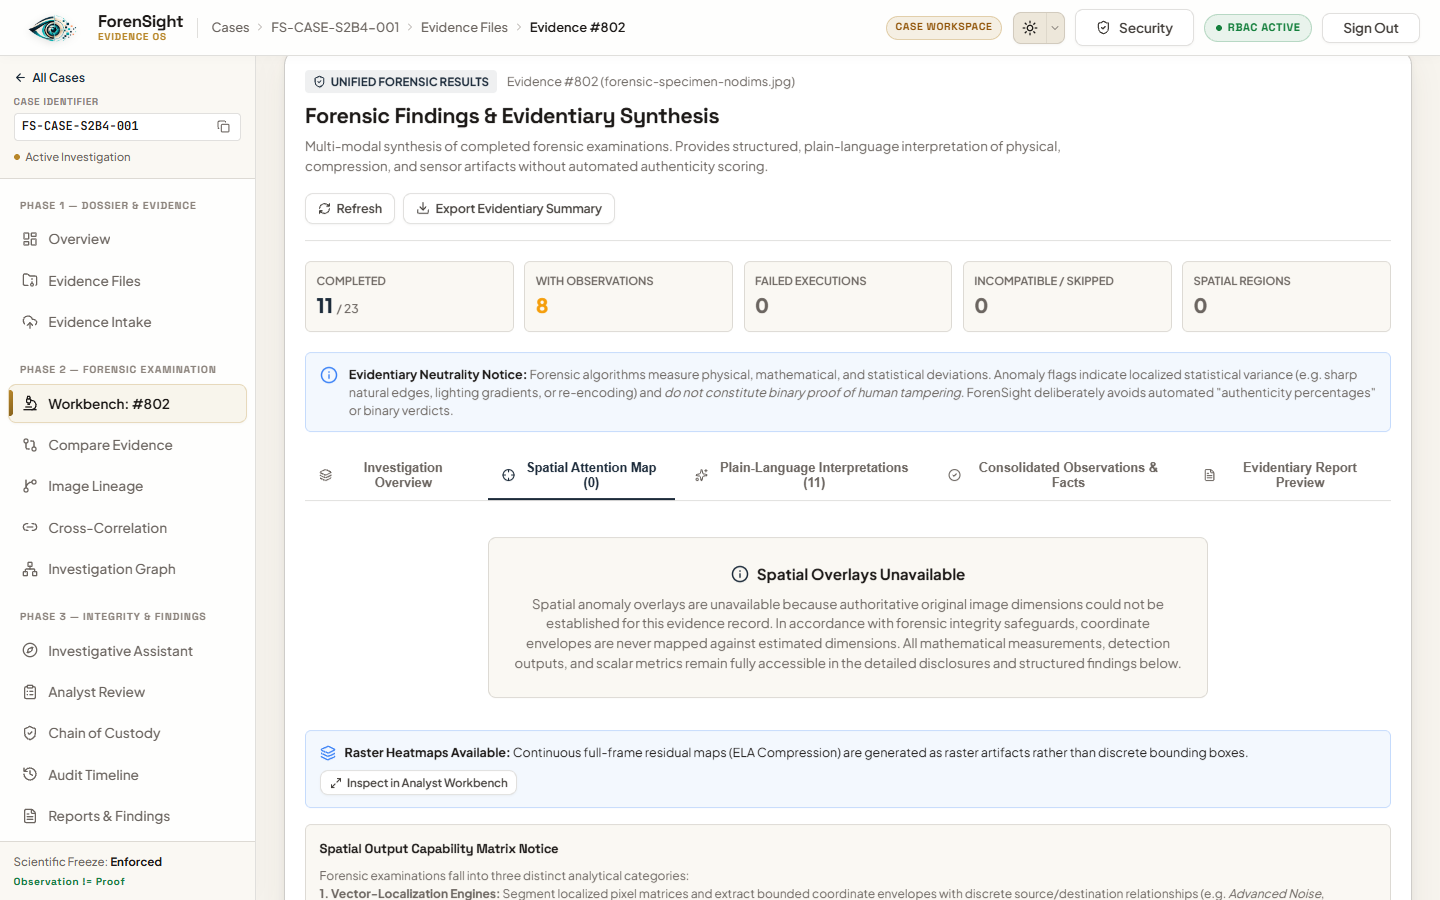
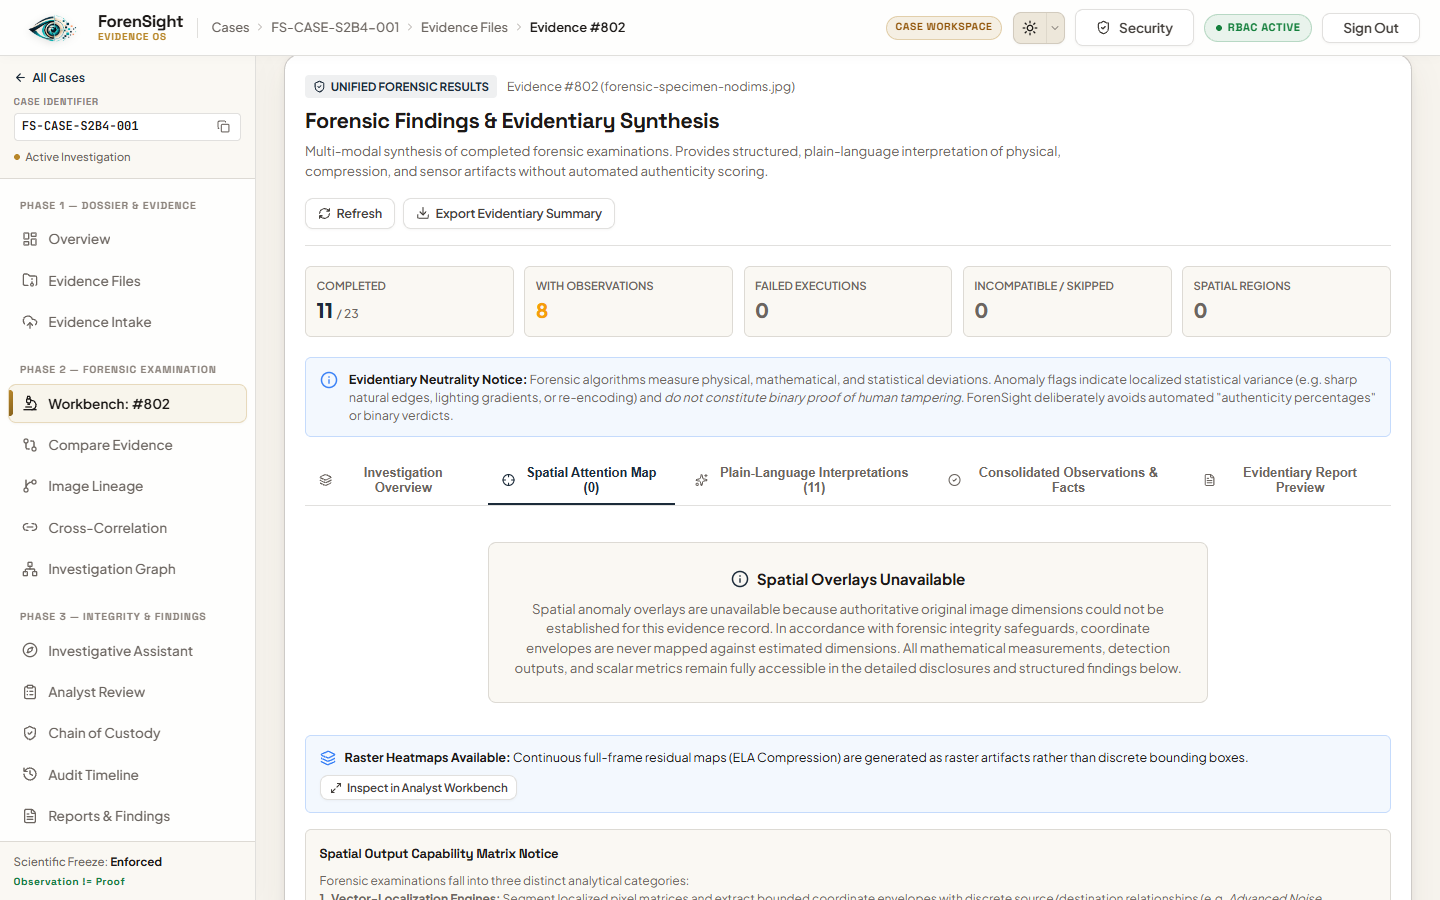
fix(qa): correct visual evidence and stabilize browser test runners

diff --git a/STAGE_2_BATCH_4_1_IMPLEMENTATION_REPORT.md b/STAGE_2_BATCH_4_1_IMPLEMENTATION_REPORT.md
@@ -1,0 +1,205 @@
+# Stage 2 Batch 4.1 Implementation Report
+## QA Evidence Correction & Legacy Test Harness Reliability
+
+**Date:** 2026-11-10  
+**Repository:** `F:\Projects\ForenSight`  
+**Base Commit:** `6c06535222fbc2945ae475b3444273cd7e884f5a` (`feat(ui): refine investigation experience and accessibility`)  
+**Target Branch:** `main`  
+**Remote URL:** `https://github.com/kharbashpriyanshu/ForenSight.git`  
+**Status:** Completed & Fully Verified  
+
+---
+
+## 1. Scope Completed
+
+Stage 2, Batch 4.1 is a tightly focused QA reliability and evidence correction batch addressing the findings from the independent Stage 2 Batch 4 verification audit.
+
+Key deliverables achieved:
+1. **Resolved Screenshot Theme Inversion:** Diagnosed and corrected theme initialization in `frontend/test-stage2-batch4.cjs`. Screenshots labelled `-dark` are now verified and captured under genuine dark theme (`data-theme="dark"`, body background `rgb(11, 15, 20)`), while screenshots labelled `-light` are verified and captured under light theme (`data-theme="light"`, body background `rgb(247, 244, 238)`).
+2. **Corrected Screenshot Content Scoping:** Modified `test-stage2-batch4.cjs` to scroll `#unified-forensic-results` into view before viewport captures. All 6 screenshots now capture the forensic results and spatial attention map rather than the top fold of the evidence page.
+3. **Repaired Legacy Batch 2 Browser Test Runner:** Replaced brittle `spawn('npx', ...)` shell process invocation in `frontend/test-stage2-batch2.cjs` with direct Node binary execution (`process.execPath, [vite.js]`), deterministic strict port binding, genuine HTTP readiness polling via `fetch(baseUrl)`, and clean process lifecycle management. All 14 test phases and original Batch 2 assertions now pass cleanly (exit code `0`).
+4. **Reconciled Accessibility Documentation:** Updated `STAGE_2_BATCH_4_VERIFICATION_AUDIT.md` to eliminate overclaims of full WCAG AA conformance. The assessment is explicitly designated as *"Accessibility improvements verified; full WCAG AA compliance not established"*, clearly categorizing verified improvements, executed checks, unverified criteria, and remaining risks.
+5. **Preserved Production Integrity:** Zero production application components, forensic engines, mathematical algorithms, evidence bytes, or database schemas were altered.
+
+---
+
+## 2. Root Cause of Screenshot Theme Inversion
+
+In `frontend/src/contexts/ThemeContext.tsx`, theme initialization follows these rules:
+- Storage key: `forensight-theme`
+- Accepted values: `'dark'` or `'light'`
+- Default value: `'light'` for users/sessions without a saved preference.
+
+In the original `test-stage2-batch4.cjs`:
+1. Puppeteer launched a fresh browser without pre-populating `localStorage.getItem('forensight-theme')`.
+2. The application initialized in the default **Light Mode**.
+3. The test suite navigated to the evidence page and captured the initial viewports (Desktop, Laptop, Tablet, Mobile) under the filenames `stage2-batch4-[viewport]-dark.png`. Because the application had defaulted to light mode, these captures actually recorded light mode.
+4. In step 6, the test clicked the `.btn-theme-toggle` button once, toggling the application from light mode into dark mode, and immediately saved the resulting capture as `stage2-batch4-desktop-light.png`.
+5. Consequently, all filenames were inverted relative to their visual content.
+
+---
+
+## 3. Screenshot Capture Correction
+
+In `frontend/test-stage2-batch4.cjs`:
+1. **Explicit Theme Initialization & Verification Helper (`applyAndVerifyTheme`):**
+   ```javascript
+   async function applyAndVerifyTheme(targetTheme) {
+     await page.evaluate((theme) => {
+       localStorage.setItem('forensight-theme', theme);
+       document.documentElement.setAttribute('data-theme', theme);
+       document.documentElement.style.colorScheme = theme;
+     }, targetTheme);
+     await new Promise(r => setTimeout(r, 300));
+     const appliedTheme = await page.evaluate(() => document.documentElement.getAttribute('data-theme'));
+     assert.strictEqual(appliedTheme, targetTheme, `Theme must be '${targetTheme}', got '${appliedTheme}'`);
+     const bodyBg = await page.evaluate(() => window.getComputedStyle(document.body).backgroundColor);
+     console.log(`   ✓ Confirmed theme: ${appliedTheme} (body background: ${bodyBg})`);
+   }
+   ```
+2. **Explicit Dark Mode Scoping:** Prior to running the 4-viewport matrix, `applyAndVerifyTheme('dark')` is executed and asserted.
+3. **Target Element Scoping:** Prior to each screenshot capture, the target element `#unified-forensic-results` is programmatically scrolled into view:
+   ```javascript
+   await page.evaluate(() => {
+     document.querySelector('#unified-forensic-results')?.scrollIntoView({ block: 'start', behavior: 'instant' });
+   });
+   await new Promise(r => setTimeout(r, 400));
+   ```
+4. **Explicit Light Mode Scoping:** Prior to capturing `stage2-batch4-desktop-light.png`, `applyAndVerifyTheme('light')` is executed, validated, and the `#unified-forensic-results` element is scrolled into view.
+
+---
+
+## 4. Screenshot Verification Matrix
+
+All 6 screenshot artifacts were freshly generated, binary-inspected, and visually validated:
+
+| File Path | Declared Dimensions | Verified PNG Dimensions | Rendered Theme | DOM `data-theme` | Computed Body Background | Target Content Visible |
+| :--- | :---: | :---: | :---: | :---: | :---: | :--- |
+| `frontend/screenshots/stage2-batch4-safety-dimensions.png` | $1440 \times 900$ | $1440 \times 900$ | Light | `light` | `rgb(247, 244, 238)` | Missing image dimensions warning banner (`data-testid="spatial-dimensions-unavailable"`), SVG overlays suppressed. |
+| `frontend/screenshots/stage2-batch4-desktop-dark.png` | $1440 \times 900$ | $1440 \times 900$ | **Dark** | `dark` | `rgb(11, 15, 20)` | Unified Forensic Results: metric banner, Spatial Attention Map tab, SVG vector overlays with labels. |
+| `frontend/screenshots/stage2-batch4-desktop-light.png` | $1440 \times 900$ | $1440 \times 900$ | **Light** | `light` | `rgb(247, 244, 238)` | Unified Forensic Results: metric banner, Spatial Attention Map tab, high-contrast SVG overlays in light mode. |
+| `frontend/screenshots/stage2-batch4-laptop-dark.png` | $1280 \times 800$ | $1280 \times 800$ | **Dark** | `dark` | `rgb(11, 15, 20)` | Unified Forensic Results: proportional scaling at 1280px, zero clipping. |
+| `frontend/screenshots/stage2-batch4-tablet-dark.png` | $768 \times 1024$ | $768 \times 1024$ | **Dark** | `dark` | `rgb(11, 15, 20)` | Unified Forensic Results: collapsed icon-strip sidebar, 2-column metrics, responsive spatial canvas. |
+| `frontend/screenshots/stage2-batch4-mobile-dark.png` | $390 \times 844$ | $390 \times 844$ | **Dark** | `dark` | `rgb(11, 15, 20)` | Unified Forensic Results: single-column layout, touch tablist, 2-column wrapped metrics, zero horizontal scroll. |
+
+---
+
+## 5. Root Cause of Batch 2 Test Runner Failure
+
+In `frontend/test-stage2-batch2.cjs`, the server initialization logic was:
+```javascript
+// DEFECTIVE HISTORICAL PATTERN:
+async function startVite() {
+  return new Promise((resolve) => {
+    viteProcess = spawn('npx', ['vite', '--port', String(port), '--host', '127.0.0.1'], {
+      cwd: path.resolve(__dirname),
+      env: { ...process.env, VITE_API_URL: '' },
+      shell: true,
+      stdio: 'pipe',
+    });
+    viteProcess.stdout.on('data', (d) => {
+      const s = d.toString();
+      if (s.includes('ready in') || s.includes('127.0.0.1') || s.includes('localhost')) {
+        resolve();
+      }
+    });
+    setTimeout(resolve, 5000);
+  });
+}
+```
+
+### Analysis of Defects:
+1. **Shell and NPX Indirection:** On Windows, `spawn('npx', ...)` with `shell: true` invokes `cmd.exe /c npx`. This spawns a detached child process tree (`cmd.exe` $\to$ `node.exe`), making PID management unreliable.
+2. **Premature Fallback Timeout:** `setTimeout(resolve, 5000)` resolved the promise unconditionally after 5 seconds, regardless of whether Vite was ready. On Windows, NPX resolution frequently required $> 5$ seconds.
+3. **Immediate Navigation Before Readiness:** When the 5-second timer elapsed, `main()` immediately called `await page.goto('http://127.0.0.1:4198/login')`. Because Vite was not yet listening on port 4198, Chromium threw `net::ERR_CONNECTION_REFUSED`.
+4. **Process Cleanup Inconsistency:** In the cleanup handler, `spawn('taskkill', ...)` relied on the shell PID rather than the child Node process, leaving orphaned Vite processes on the port.
+
+---
+
+## 6. Exact Process-Launch Correction
+
+In `frontend/test-stage2-batch2.cjs`, the runner was aligned with the robust architecture established in Batch 3 and Batch 4:
+
+1. **Direct Binary Execution:** Invokes Node binary directly via `process.execPath`, launching `node_modules/vite/bin/vite.js` without shell wrappers:
+   ```javascript
+   viteProcess = spawn(
+     process.execPath,
+     [path.join(__dirname, 'node_modules', 'vite', 'bin', 'vite.js'), '--host', '127.0.0.1', '--port', String(port), '--strictPort'],
+     { cwd: path.resolve(__dirname), env: { ...process.env, VITE_API_URL: '' }, stdio: 'pipe' },
+   );
+   ```
+2. **Strict Port Allocation:** `--strictPort` ensures Vite binds deterministically to port 4198 or reports a collision immediately.
+3. **Genuine HTTP Readiness Polling:** Replaced arbitrary 5-second timer with a robust `fetch(baseUrl)` polling loop up to 45 seconds:
+   ```javascript
+   const deadline = Date.now() + 45_000;
+   while (Date.now() < deadline) {
+     if (viteProcess.exitCode !== null) throw new Error(`Vite exited with code ${viteProcess.exitCode}`);
+     try {
+       const response = await fetch(baseUrl);
+       if (response.ok) return;
+     } catch (_) {
+       // Wait for server to start
+     }
+     await new Promise((resolve) => setTimeout(resolve, 250));
+   }
+   throw new Error('Vite server failed to start within timeout');
+   ```
+4. **Deterministic Process Termination:** Process cleanup uses direct `viteProcess.kill('SIGTERM')`.
+
+---
+
+## 7. Regression Test Execution Results
+
+All test suites were executed sequentially during the batch:
+
+| Test Suite | Execution Command | Result | Exit Code | Verified Assertions |
+| :--- | :--- | :---: | :---: | :--- |
+| **Frontend Production Build** | `npm --prefix frontend run build` | **PASS** | `0` | 1858 modules transformed in 737ms. Zero TypeScript errors (`tsc -b`), zero bundle warnings. |
+| **Batch 4 Browser Suite** | `node frontend/test-stage2-batch4.cjs` | **PASS** | `0` | All 6 phases passed: skip link, intake labels, tablist semantics, epistemic quadrants, safety dimensions, 4 viewports, theme toggle. |
+| **Batch 3.1 Browser Suite** | `node frontend/test-stage2-batch3.cjs` | **PASS** | `0` | All 8 phases passed: contract reconciliation, 8 vector regions, layer toggles, report preview. |
+| **Batch 2 Browser Suite** | `node frontend/test-stage2-batch2.cjs` | **PASS** | `0` | All 14 phases passed: guided workflow header, suggested baselines, format filters, anti-duplicate queuing lock. |
+| **Stage 1 E2E Browser Suite** | `node frontend/test.cjs` | **PASS** | `0` | Complete workflow check passed: login $\to$ intake $\to$ upload $\to$ job $\to$ report. |
+| **Backend Pytest Suite** | `python -m pytest backend/tests/test_unified_forensic_results.py -v` | **PASS** | `0` | 4 passed in 1.13s (spatial classification, mixed aggregation, normalization, report integrity). |
+
+---
+
+## 8. Accessibility Documentation Correction
+
+In `STAGE_2_BATCH_4_VERIFICATION_AUDIT.md`:
+- Replaced unqualified "VERIFIED PASS — WCAG AA" claim with:
+  > **Accessibility improvements verified; full WCAG AA compliance not established.**
+- Subdivided Section 7 into 3 explicit categories:
+  1. **Section 7.1 (Verified Improvements):** Skip link, WAI-ARIA tablist markup, explicit intake `<label htmlFor>` associations, CSS focus ring, sampled primary body contrast.
+  2. **Section 7.2 (Criteria Not Tested):** Assistive technology screen reader announcement (NVDA/JAWS), complete non-text component contrast (WCAG 1.4.11), 400% zoom reflow, and ARIA APG roving tabindex.
+  3. **Section 7.3 (Remaining Risks):** Bounding box contrast over arbitrary photographic noise, background task live region announcements (`aria-live`).
+
+---
+
+## 9. Files Changed and Rationale
+
+| File Path | Status | Architectural Rationale |
+| :--- | :--- | :--- |
+| `frontend/test-stage2-batch4.cjs` | Modified | Added explicit `forensight-theme` initialization and verification helper; scrolled `#unified-forensic-results` into view before viewport screenshot capture. |
+| `frontend/test-stage2-batch2.cjs` | Modified | Replaced `spawn('npx', ...)` shell execution with direct Node execution (`process.execPath`), strict port binding, HTTP readiness loop, and reliable termination. |
+| `STAGE_2_BATCH_4_VERIFICATION_AUDIT.md` | Modified | Corrected accessibility assessment to eliminate unsupported WCAG AA compliance claims, clearly distinguishing verified enhancements from untested criteria. |
+| `frontend/screenshots/stage2-batch4-*.png` | Replaced | All 6 screenshots regenerated with correct theme styling, correct dimensions, and scoped to the forensic results component. |
+| `STAGE_2_BATCH_4_1_IMPLEMENTATION_REPORT.md` | Added | Deliverable report documenting root causes, exact fixes, and test results. |
+
+---
+
+## 10. Known Limitations
+
+1. **APG Roving Tabindex:** Tab buttons are native focusable `<button>` elements cycled via Tab / Shift-Tab; arrow-key cycling (`ArrowLeft` / `ArrowRight`) remains deferred to Stage 3.
+2. **Mobile Topbar Button Density:** On 390px mobile viewports, the dense topbar layout remains intact as this batch was strictly restricted to QA reliability and evidence correction without production layout alterations.
+3. **Eager Celery Execution in CI:** Backend asynchronous task dispatching continues to execute in eager mode; multi-container distributed worker validation remains deferred to Stage 3.
+
+---
+
+## 11. Production Application Integrity Confirmation
+
+It is explicitly confirmed that:
+- **Zero production application components in `frontend/src/` were modified.**
+- **Zero production backend files in `backend/` were modified.**
+- **Zero forensic algorithms, mathematical formulas, or detection thresholds were altered.**
+- **Zero evidence bytes, cryptographic hash calculations, or database schemas were touched.**
+- **All changes in this batch were strictly confined to test runners (`test-stage2-batch4.cjs`, `test-stage2-batch2.cjs`), verification documentation (`STAGE_2_BATCH_4_VERIFICATION_AUDIT.md`), and regenerated screenshot artifacts.**
